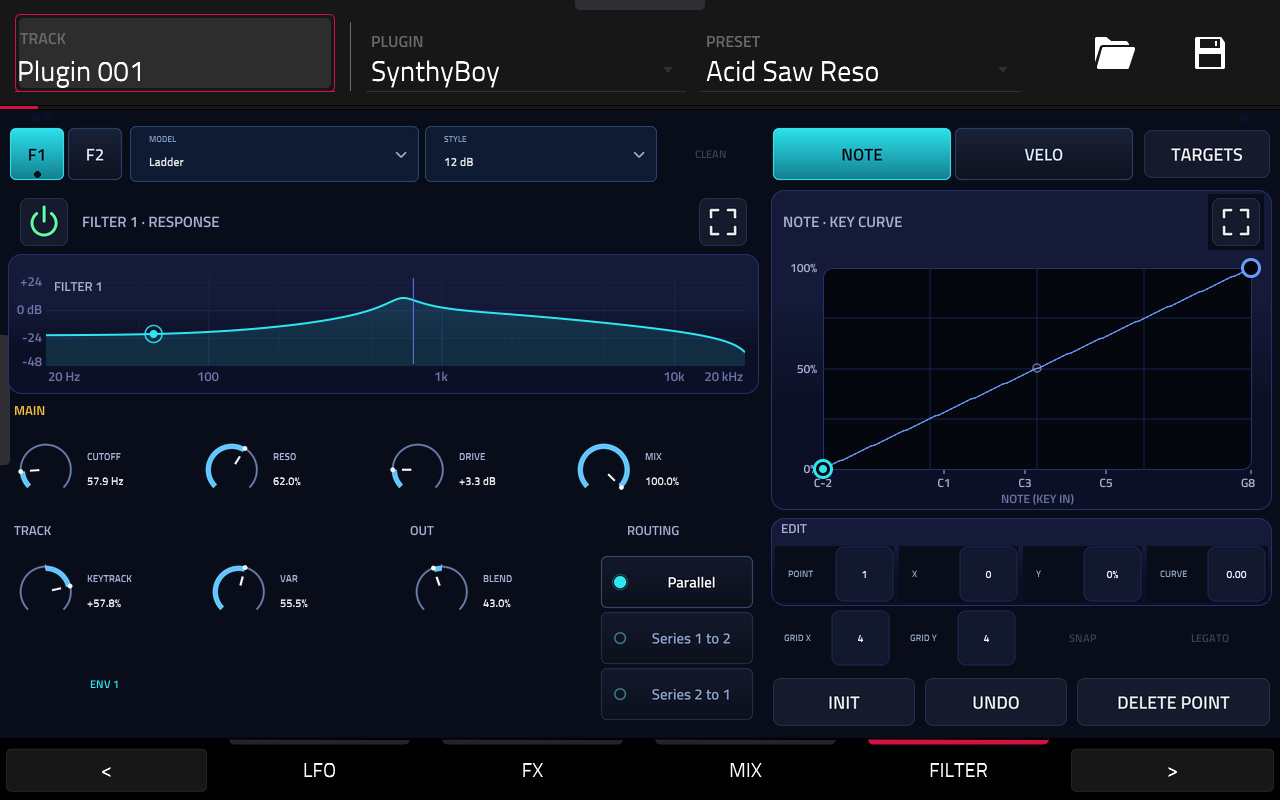
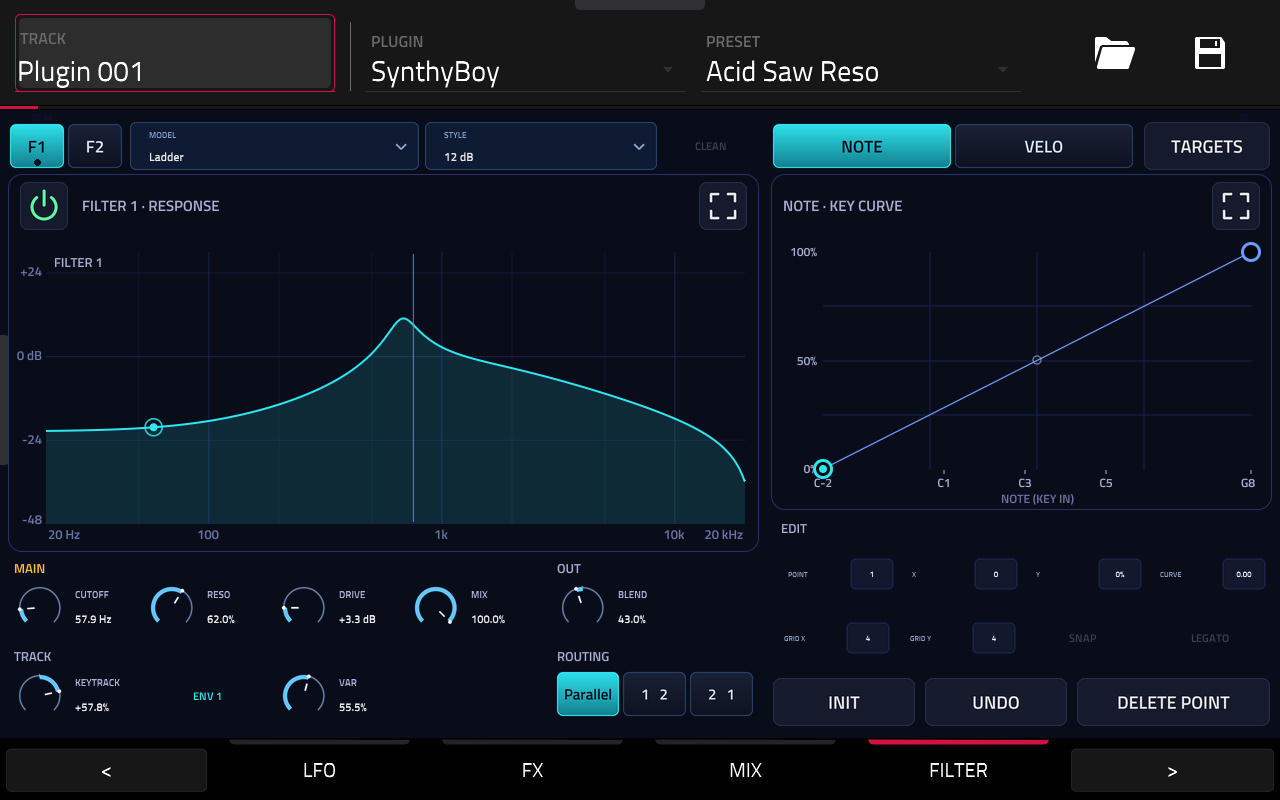
Refresh Filter screen from the MPC XL with the compact native controls

diff --git a/docs/ui-components/native-katalogus.html b/docs/ui-components/native-katalogus.html
@@ -16,7 +16,7 @@
 <section id="rnd"><h2>RND</h2><p>Fejlesztési előnézet · offline render, nem hardveres felvétel</p><div class="pair"><figure><a href="../screens/rnd.jpg?v=b52bc095e2c8"><img src="../screens/rnd.jpg?v=b52bc095e2c8" alt="RND · aktuális előnézet"></a><figcaption>RND · aktuális előnézet</figcaption></figure></div></section>
 <section id="fx"><h2>FX</h2><p>Mai natív TUI + aktuális C++ FX overlay · szintetikus offline render, nem hardveres felvétel</p><div class="pair"><figure><a href="../screens/fx.jpg?v=ebd46e5c3d1a"><img src="../screens/fx.jpg?v=ebd46e5c3d1a" alt="FX · aktuális előnézet"></a><figcaption>FX · aktuális előnézet</figcaption></figure></div></section>
 <section id="mixer"><h2>Mixer</h2><p>Fejlesztési előnézet · offline render, nem hardveres felvétel</p><div class="pair"><figure><a href="../screens/mixer_old.jpg?v=cd315c9184ef"><img src="../screens/mixer_old.jpg?v=cd315c9184ef" alt="Mixer · rögzített régi referencia"></a><figcaption>Mixer · rögzített régi referencia</figcaption></figure><figure><a href="../screens/mixer.jpg?v=db2edbcbad7e"><img src="../screens/mixer.jpg?v=db2edbcbad7e" alt="Mixer · aktuális előnézet"></a><figcaption>Mixer · aktuális előnézet</figcaption></figure></div></section>
-<section id="filter"><h2>Filter</h2><p>Nem elfogadott fejlesztési előnézet · a natív megjelenés javítása folyamatban</p><div class="pair"><figure><a href="../screens/filter_old.jpg?v=0f55a2bfbe5c"><img src="../screens/filter_old.jpg?v=0f55a2bfbe5c" alt="Filter · rögzített régi referencia"></a><figcaption>Filter · rögzített régi referencia</figcaption></figure><figure><a href="../screens/filter.jpg?v=8d08c2b1212e"><img src="../screens/filter.jpg?v=8d08c2b1212e" alt="Filter · aktuális előnézet"></a><figcaption>Filter · aktuális előnézet</figcaption></figure></div></section>
+<section id="filter"><h2>Filter</h2><p>MPC XL hardverfelvétel · Filter 1 és NOTE görbe</p><div class="pair"><figure><a href="../screens/filter_old.jpg?v=0f55a2bfbe5c"><img src="../screens/filter_old.jpg?v=0f55a2bfbe5c" alt="Filter · rögzített régi referencia"></a><figcaption>Filter · rögzített régi referencia</figcaption></figure><figure><a href="../screens/filter.jpg?v=d1ce213c4839"><img src="../screens/filter.jpg?v=d1ce213c4839" alt="Filter · aktuális előnézet"></a><figcaption>Filter · aktuális előnézet</figcaption></figure></div></section>
 <section id="mod"><h2>Mod</h2><p>Fejlesztési előnézet · offline render, nem hardveres felvétel</p><div class="pair"><figure><a href="../screens/mod_old.jpg?v=0e79df023a0a"><img src="../screens/mod_old.jpg?v=0e79df023a0a" alt="Mod · rögzített régi referencia"></a><figcaption>Mod · rögzített régi referencia</figcaption></figure><figure><a href="../screens/mod.jpg?v=7aba84586097"><img src="../screens/mod.jpg?v=7aba84586097" alt="Mod · aktuális előnézet"></a><figcaption>Mod · aktuális előnézet</figcaption></figure></div></section>
 <section id="master"><h2>Master</h2><p>Átvett korábbi fejlesztési előnézet · nem a mai build hitelesítése</p><div class="pair"><figure><a href="../screens/master_old.jpg?v=dac4721df195"><img src="../screens/master_old.jpg?v=dac4721df195" alt="Master · rögzített régi referencia"></a><figcaption>Master · rögzített régi referencia</figcaption></figure><figure><a href="../screens/master.jpg?v=598d34d3f23e"><img src="../screens/master.jpg?v=598d34d3f23e" alt="Master · aktuális előnézet"></a><figcaption>Master · aktuális előnézet</figcaption></figure></div></section>
 <section id="voice"><h2>Voice</h2><p>Fejlesztési előnézet · offline render, nem hardveres felvétel</p><div class="pair"><figure><a href="../screens/voice.jpg?v=6139c7d94c46"><img src="../screens/voice.jpg?v=6139c7d94c46" alt="Voice · aktuális előnézet"></a><figcaption>Voice · aktuális előnézet</figcaption></figure></div></section>
